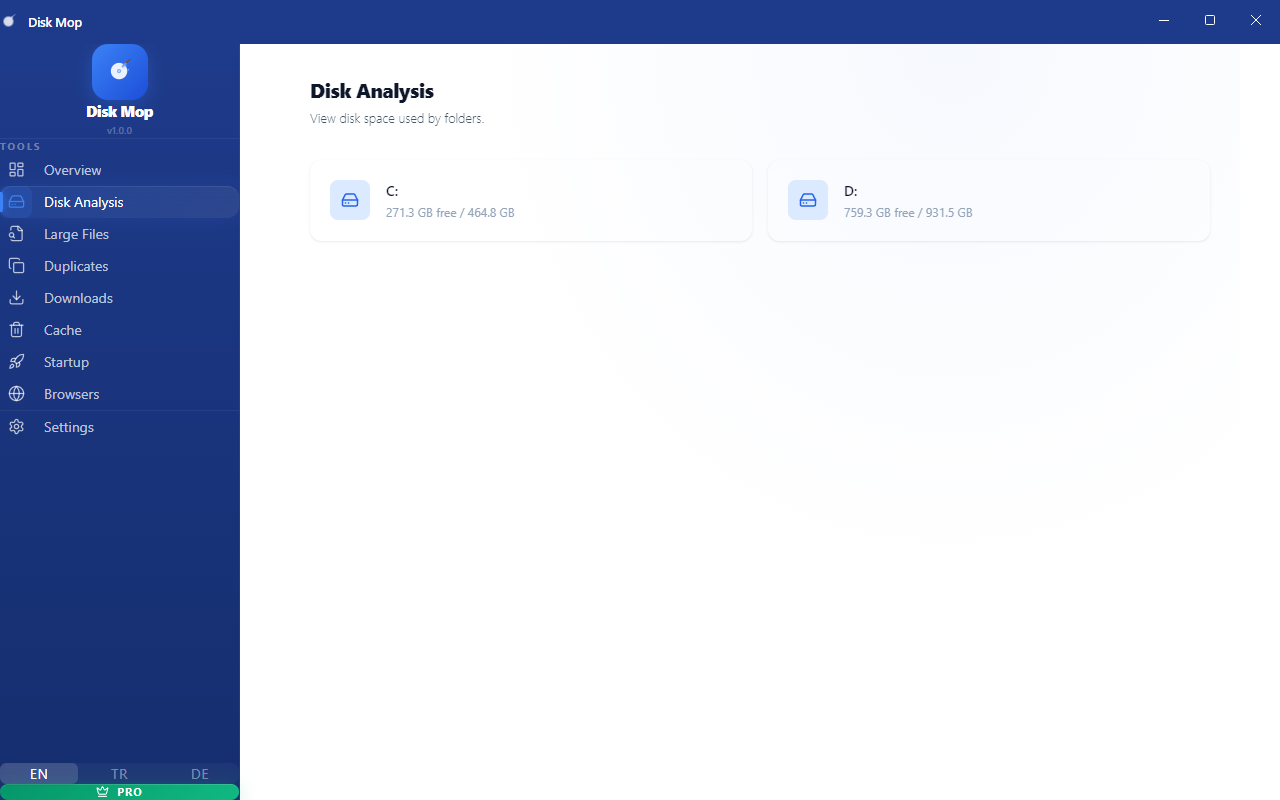
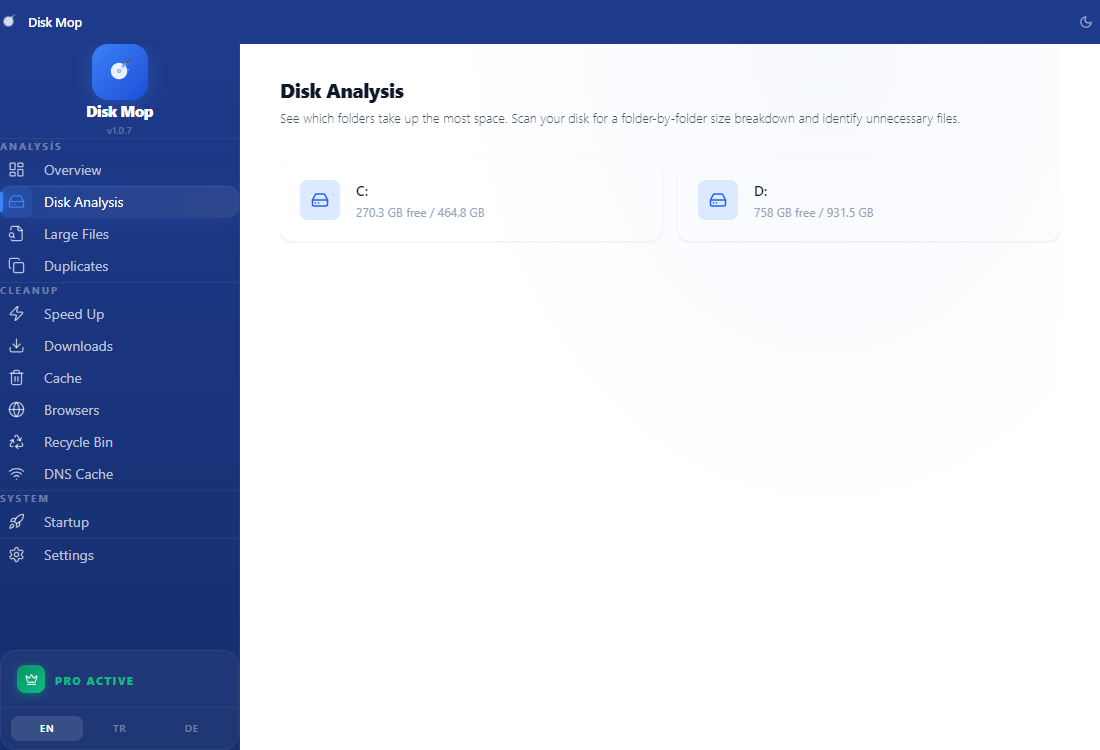
Update screenshots, features, and download links for v1.0.7
- Recaptured all 12 app screenshots (new menus: Speed Up, Recycle Bin, DNS Cache, Settings)
- Updated features grid: 8 -> 11 features across TR/EN/DE
- Updated product showcase: 5 -> 12 tabs across TR/EN/DE
- Windows download links point to direct .exe from GitHub releases
- Removed old screenshot files, added new ones

diff --git a/src/components/product-showcase.tsx b/src/components/product-showcase.tsx
@@ -9,7 +9,14 @@ import {
   HardDrive,
   Search,
   Copy,
+  Zap,
   Download,
+  Trash2,
+  Globe,
+  Recycle,
+  Wifi,
+  Rocket,
+  Settings,
 } from 'lucide-react';
 import type { LucideIcon } from 'lucide-react';
 
@@ -24,41 +31,18 @@ interface ShowcaseTab {
 }
 
 const showcaseTabs: ShowcaseTab[] = [
-  {
-    id: 'overview',
-    icon: LayoutDashboard,
-    nameKey: '0',
-    descKey: '0',
-    screenshot: '/screenshots/01-overview.png',
-  },
-  {
-    id: 'disk-analysis',
-    icon: HardDrive,
-    nameKey: '1',
-    descKey: '1',
-    screenshot: '/screenshots/02-disk-analyzer.png',
-  },
-  {
-    id: 'large-files',
-    icon: Search,
-    nameKey: '2',
-    descKey: '2',
-    screenshot: '/screenshots/03-large-files.png',
-  },
-  {
-    id: 'duplicates',
-    icon: Copy,
-    nameKey: '3',
-    descKey: '3',
-    screenshot: '/screenshots/04-duplicates.png',
-  },
-  {
-    id: 'downloads',
-    icon: Download,
-    nameKey: '4',
-    descKey: '4',
-    screenshot: '/screenshots/05-downloads.png',
-  },
+  { id: 'overview', icon: LayoutDashboard, nameKey: '0', descKey: '0', screenshot: '/screenshots/01-overview.png' },
+  { id: 'disk-analysis', icon: HardDrive, nameKey: '1', descKey: '1', screenshot: '/screenshots/02-disk-analyzer.png' },
+  { id: 'large-files', icon: Search, nameKey: '2', descKey: '2', screenshot: '/screenshots/03-large-files.png' },
+  { id: 'duplicates', icon: Copy, nameKey: '3', descKey: '3', screenshot: '/screenshots/04-duplicates.png' },
+  { id: 'speed-up', icon: Zap, nameKey: '4', descKey: '4', screenshot: '/screenshots/05-speed-up.png' },
+  { id: 'downloads', icon: Download, nameKey: '5', descKey: '5', screenshot: '/screenshots/06-downloads.png' },
+  { id: 'cache', icon: Trash2, nameKey: '6', descKey: '6', screenshot: '/screenshots/07-cache.png' },
+  { id: 'browser', icon: Globe, nameKey: '7', descKey: '7', screenshot: '/screenshots/08-browser.png' },
+  { id: 'recycle-bin', icon: Recycle, nameKey: '8', descKey: '8', screenshot: '/screenshots/09-recycle-bin.png' },
+  { id: 'dns-cache', icon: Wifi, nameKey: '9', descKey: '9', screenshot: '/screenshots/10-dns-cache.png' },
+  { id: 'startup', icon: Rocket, nameKey: '10', descKey: '10', screenshot: '/screenshots/11-startup.png' },
+  { id: 'settings', icon: Settings, nameKey: '11', descKey: '11', screenshot: '/screenshots/12-settings.png' },
 ];
 
 export function ProductShowcase() {

diff --git a/src/components/features-grid.tsx b/src/components/features-grid.tsx
@@ -6,10 +6,13 @@ import {
   HardDrive,
   Search,
   Copy,
+  Zap,
   Download,
-  Database,
-  Rocket,
+  Trash2,
   Globe,
+  Recycle,
+  Wifi,
+  Rocket,
   Activity,
 } from 'lucide-react';
 import type { LucideIcon } from 'lucide-react';
@@ -26,11 +29,14 @@ const features: Feature[] = [
   { icon: HardDrive, titleKey: '0', descKey: '0' },
   { icon: Search, titleKey: '1', descKey: '1' },
   { icon: Copy, titleKey: '2', descKey: '2' },
-  { icon: Download, titleKey: '3', descKey: '3' },
-  { icon: Database, titleKey: '4', descKey: '4' },
-  { icon: Rocket, titleKey: '5', descKey: '5' },
+  { icon: Zap, titleKey: '3', descKey: '3' },
+  { icon: Download, titleKey: '4', descKey: '4' },
+  { icon: Trash2, titleKey: '5', descKey: '5' },
   { icon: Globe, titleKey: '6', descKey: '6' },
-  { icon: Activity, titleKey: '7', descKey: '7' },
+  { icon: Recycle, titleKey: '7', descKey: '7' },
+  { icon: Wifi, titleKey: '8', descKey: '8' },
+  { icon: Rocket, titleKey: '9', descKey: '9' },
+  { icon: Activity, titleKey: '10', descKey: '10' },
 ];
 
 export function FeaturesGrid() {

diff --git a/src/components/download-dropdown.tsx b/src/components/download-dropdown.tsx
@@ -33,7 +33,7 @@ const downloadOptions: DownloadOption[] = [
     os: 'windows',
     label: 'Windows',
     sublabel: '.exe',
-    href: '/downloads/diskmop-setup-windows.exe',
+    href: 'https://github.com/mhrgndz/diskmop-releases/releases/download/v1.0.7/DiskMop-Setup-1.0.7.exe',
     size: '15 MB',
     icon: Monitor,
   },
@@ -42,7 +42,7 @@ const downloadOptions: DownloadOption[] = [
     label: 'macOS',
     sublabel: 'Apple Silicon',
     href: '/downloads/diskmop-mac-arm64.dmg',
-    size: '15 MB',
+    size: '18 MB',
     icon: Laptop,
   },
   {
@@ -50,7 +50,7 @@ const downloadOptions: DownloadOption[] = [
     label: 'macOS',
     sublabel: 'Intel',
     href: '/downloads/diskmop-mac-x64.dmg',
-    size: '15 MB',
+    size: '18 MB',
     icon: Laptop,
   },
 ];

diff --git a/src/app/[locale]/success/page.tsx b/src/app/[locale]/success/page.tsx
@@ -166,7 +166,7 @@ export default function SuccessPage() {
             </p>
             <div className="grid grid-cols-1 sm:grid-cols-2 gap-3">
               <a
-                href="/downloads/diskmop-setup-windows.exe"
+                href="https://github.com/mhrgndz/diskmop-releases/releases/download/v1.0.7/DiskMop-Setup-1.0.7.exe"
                 className="flex items-center gap-3 bg-card border rounded-xl p-4 hover:border-brand-500/50 hover:shadow-md transition-all"
               >
                 <Monitor className="w-8 h-8 text-brand-500" />

diff --git a/src/components/platform-selector.tsx b/src/components/platform-selector.tsx
@@ -31,7 +31,7 @@ const platforms: PlatformCard[] = [
     size: '15 MB',
     ext: '.exe',
     systemReq: 'Windows 10/11 (64-bit)',
-    href: '/downloads/diskmop-setup-windows.exe',
+    href: 'https://github.com/mhrgndz/diskmop-releases/releases/download/v1.0.7/DiskMop-Setup-1.0.7.exe',
   },
   {
     key: 'mac',
